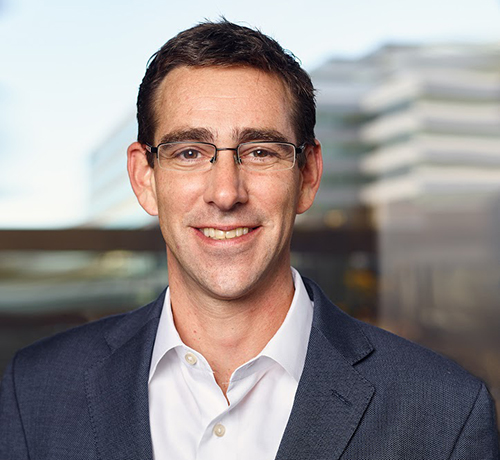
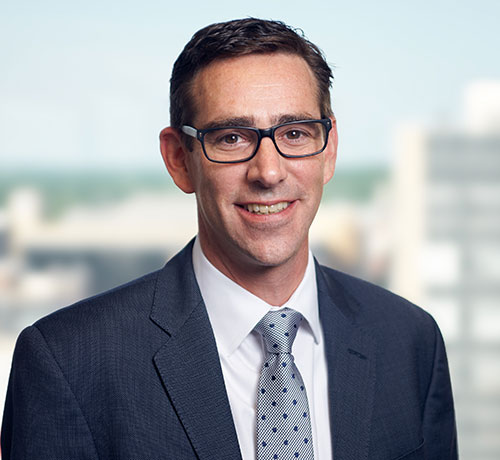
Update

diff --git a/app/about/leadership-team.html b/app/about/leadership-team.html
@@ -243,6 +243,30 @@ j=d.createElement(s),dl=l!='dataLayer'?'&l='+l:'';j.async=true;j.src=
 	      		</div>
 
 				<div class="row clearfix">
+
+          <div class="col-md-6 bottommargin-md">
+            <div class="team team-list clearfix">
+              <div class="team-image">
+                <img src="../images/team/christopher_blunt.jpg" alt="Christopher Blunt">
+              </div>
+              <div class="team-desc">
+                <div class="team-title uppercase"><h4 class="gray-heading nobottommargin">Chris Blunt</h4><span>President & <br>Chief Executive Officer</span></div>
+                <div class="team-content">
+                  <p class="caption">Chris Blunt serves as President and Chief Executive Officer of FGL Holdings and Fidelity & Guaranty Life. As CEO, Chris sets the strategy for the company and oversees all aspects of the insurance business and operations. Chris joined F&G in 2019 after nearly 27 years in a variety of insurance, investment management and marketing roles.
+                  </p>
+                </div>
+                <a href="https://www.linkedin.com/in/chris-blunt-01269b10/" class="social-icon si-rounded si-small si-light si-linkedin">
+                  <i class="icon-linkedin"></i>
+                  <i class="icon-linkedin"></i>
+                </a>
+              </div>
+            </div>
+          </div>
+
+        </div>
+
+        <div class="row clearfix">
+
           <div class="col-md-6 bottommargin-md">
             <div class="team team-list clearfix">
               <div class="team-image">
